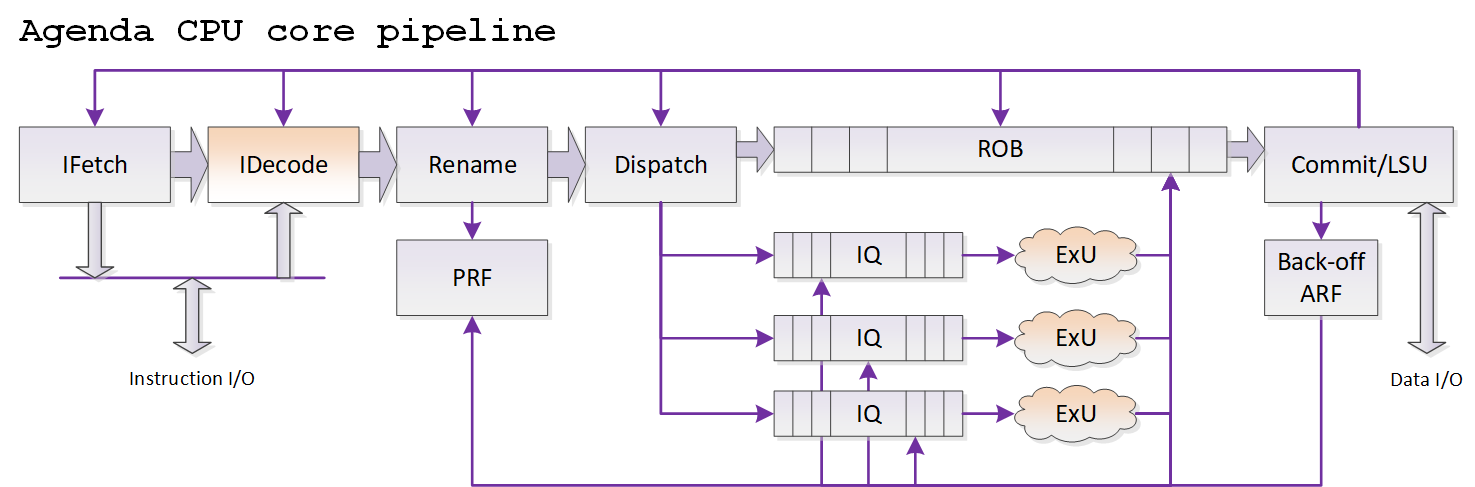
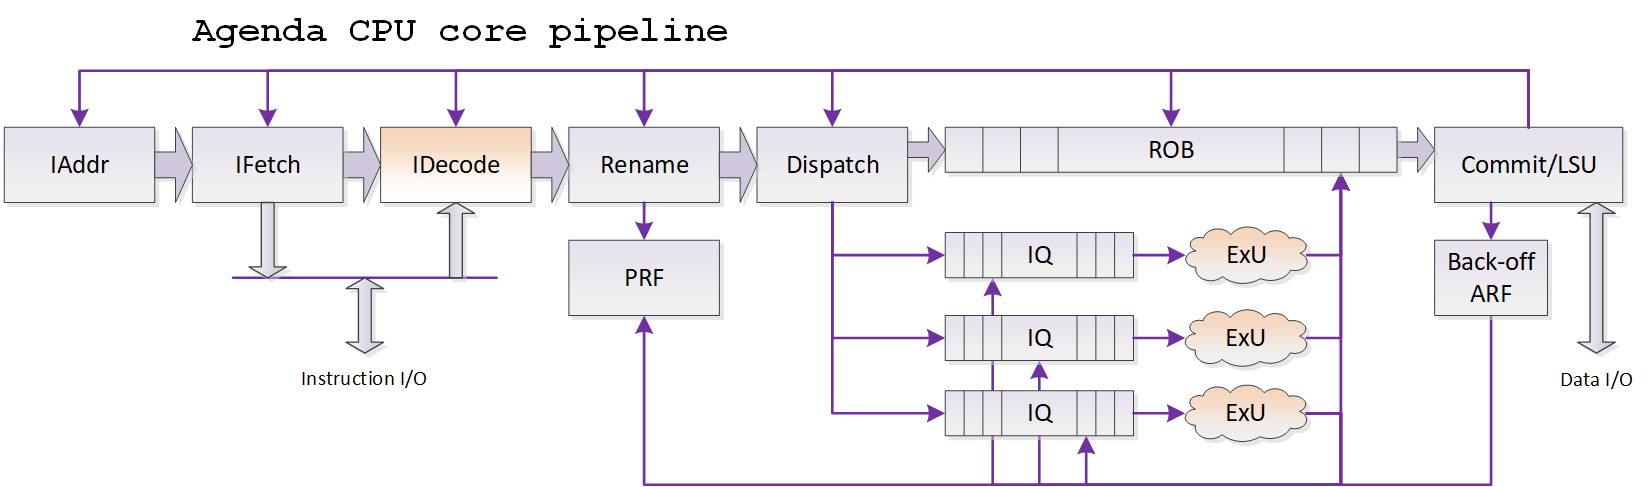
Adding IAddr stage to Agenda

diff --git a/kernelip/reordex/src/frontend.kt b/kernelip/reordex/src/frontend.kt
@@ -10,9 +10,33 @@ package reordex
 
 import hwast.*
 
-class instr_req_stage(val name : String, val cyclix_gen : cyclix.Generic, val instr_fetch : instr_fetch_buffer, INSTR_IO_ID_WIDTH : Int) : hw_imm(0) {
+class instr_iaddr_stage(val name : String, cyclix_gen : cyclix.Generic, MultiExu_CFG : Reordex_CFG) : trx_buffer(cyclix_gen, "geninstr_iaddr", 1, MultiExu_CFG) {
 
     var pc = cyclix_gen.uglobal("pc", 31, 0, hw_imm(32, IMM_BASE_TYPE.HEX, "200"))
+    val curinstr_addr  = AdduLocal("curinstr_addr", 31, 0, "0")
+    val nextinstr_addr = AdduLocal("nextinstr_addr", 31, 0, "0")
+
+    fun Process(instr_req : instr_req_stage) {
+
+        var new_req_buf = instr_req.GetPushTrx()
+
+        cyclix_gen.assign(curinstr_addr, pc)
+        cyclix_gen.add_gen(nextinstr_addr, pc, 4)
+        cyclix_gen.assign(TRX_LOCAL.GetFracRef("enb"), 1)
+        cyclix_gen.assign_subStructs(new_req_buf, TRX_LOCAL)
+
+        cyclix_gen.begif(instr_req.ctrl_rdy)
+        run {
+            cyclix_gen.assign(pc, nextinstr_addr)
+            instr_req.push_trx(new_req_buf)
+        }; cyclix_gen.endif()
+    }
+}
+
+class instr_req_stage(val name : String, cyclix_gen : cyclix.Generic, INSTR_IO_ID_WIDTH : Int, MultiExu_CFG : Reordex_CFG) : trx_buffer(cyclix_gen, "geninstr_req", 2, MultiExu_CFG) {
+
+    val curinstr_addr  = AdduStageVar("curinstr_addr", 31, 0, "0")
+    val nextinstr_addr = AdduStageVar("nextinstr_addr", 31, 0, "0")
 
     var busreq_mem_struct = hw_struct(name + "_busreq_mem_struct")
     val instr_name_prefix = "genmcopipe_instr_mem_"
@@ -22,41 +46,48 @@ class instr_req_stage(val name : String, val cyclix_gen : cyclix.Generic, val in
 
     var instr_io_wr_ptr = cyclix_gen.uglobal("geninstr_io_wr_ptr", INSTR_IO_ID_WIDTH-1, 0, "0")
 
-    fun Process(instr_fetch : instr_fetch_buffer) {
-
-        var new_fetch_buf = instr_fetch.GetPushTrx()
-        var instr_data_wdata = cyclix_gen.local("instr_data_wdata", instr_req_fifo.vartype, "0")
-
+    init {
         busreq_mem_struct.addu("addr",     31, 0, "0")
         busreq_mem_struct.addu("be",       3,  0, "0")
         busreq_mem_struct.addu("wdata",    31, 0, "0")
 
         wr_struct.addu("we", 0, 0, "0")
         wr_struct.add("wdata", hw_type(busreq_mem_struct), "0")
+    }
 
-        cyclix_gen.assign(new_fetch_buf.GetFracRef("curinstr_addr"), pc)
+    fun Process(instr_fetch : instr_fetch_buffer) {
 
-        cyclix_gen.begif(instr_fetch.ctrl_rdy)
+        preinit_ctrls()
+        init_locals()
+
+        var new_fetch_buf = instr_fetch.GetPushTrx()
+        var instr_data_wdata = cyclix_gen.local("instr_data_wdata", instr_req_fifo.vartype, "0")
+
+        cyclix_gen.begif(ctrl_active)
         run {
-            cyclix_gen.assign(instr_data_wdata.GetFracRef("we"), 0)
-            cyclix_gen.assign(instr_data_wdata.GetFracRef("wdata").GetFracRef("addr"), pc)
-            cyclix_gen.assign(instr_data_wdata.GetFracRef("wdata").GetFracRef("be"), 15)
-            cyclix_gen.assign(instr_data_wdata.GetFracRef("wdata").GetFracRef("wdata"), 0)
 
-            cyclix_gen.assign(new_fetch_buf.GetFracRef("geninstr_io_id"), instr_io_wr_ptr)
-            cyclix_gen.begif(cyclix_gen.fifo_wr_unblk(instr_req_fifo, instr_data_wdata))
+            cyclix_gen.begif(instr_fetch.ctrl_rdy)
             run {
-                cyclix_gen.assign(instr_fetch.push, 1)
-                cyclix_gen.add_gen(instr_io_wr_ptr, instr_io_wr_ptr, 1)
-                cyclix_gen.add_gen(pc, pc, 4)
-            }; cyclix_gen.endif()
+                cyclix_gen.assign(instr_data_wdata.GetFracRef("we"), 0)
+                cyclix_gen.assign(instr_data_wdata.GetFracRef("wdata").GetFracRef("addr"), curinstr_addr)
+                cyclix_gen.assign(instr_data_wdata.GetFracRef("wdata").GetFracRef("be"), 15)
+                cyclix_gen.assign(instr_data_wdata.GetFracRef("wdata").GetFracRef("wdata"), 0)
 
-            cyclix_gen.assign(new_fetch_buf.GetFracRef("enb"), 1)
-            cyclix_gen.assign(new_fetch_buf.GetFracRef("nextinstr_addr"), pc)
+                cyclix_gen.assign(new_fetch_buf.GetFracRef("geninstr_io_id"), instr_io_wr_ptr)
+                cyclix_gen.begif(cyclix_gen.fifo_wr_unblk(instr_req_fifo, instr_data_wdata))
+                run {
+                    cyclix_gen.assign(instr_fetch.push, 1)
+                    cyclix_gen.add_gen(instr_io_wr_ptr, instr_io_wr_ptr, 1)
+                }; cyclix_gen.endif()
 
-            cyclix_gen.begif(instr_fetch.push)
-            run {
-                instr_fetch.push_trx(new_fetch_buf)
+                cyclix_gen.assign_subStructs(new_fetch_buf, TRX_LOCAL)
+
+                cyclix_gen.begif(instr_fetch.push)
+                run {
+                    instr_fetch.push_trx(new_fetch_buf)
+                    pop_trx()
+                }; cyclix_gen.endif()
+
             }; cyclix_gen.endif()
 
         }; cyclix_gen.endif()
@@ -65,13 +96,12 @@ class instr_req_stage(val name : String, val cyclix_gen : cyclix.Generic, val in
 
 class instr_fetch_buffer(name: String,
                          cyclix_gen : cyclix.Generic,
-                         name_prefix : String,
                          TRX_BUF_SIZE : Int,
                          val MultiExu_inst : MultiExuRISC,
                          val MultiExu_CFG : Reordex_CFG,
                          val global_structures: __control_structures,
                          cdb_num : Int,
-                         INSTR_IO_ID_WIDTH : Int) : uop_buffer(cyclix_gen, name_prefix, TRX_BUF_SIZE, MultiExu_CFG, cdb_num) {
+                         INSTR_IO_ID_WIDTH : Int) : uop_buffer(cyclix_gen, "geninstr_fetch", TRX_BUF_SIZE, MultiExu_CFG, cdb_num) {
 
     val curinstr_addr  = AdduStageVar("curinstr_addr", 31, 0, "0")
     val nextinstr_addr = AdduStageVar("nextinstr_addr", 31, 0, "0")

diff --git a/kernelip/reordex/src/MultiExu.kt b/kernelip/reordex/src/MultiExu.kt
@@ -18,6 +18,7 @@ enum class REORDEX_MODE {
 
 open class Reordex_CFG(val RF_width : Int,
                        val ARF_depth : Int,
+                       val FrontEnd_width : Int,
                        val rename_RF: Boolean,
                        val PRF_depth : Int,
                        val trx_inflight_num : Int,
@@ -361,11 +362,13 @@ open class MultiExuCoproc(val name : String, val MultiExu_CFG : Reordex_CFG, val
         MSG("generating internal structures: done")
 
         var instr_fetch = (rob as hw_stage)
-        var instr_req = hw_imm(0)
+        var instr_req = (rob as hw_stage)
+        var instr_iaddr = (rob as hw_stage)
         if (MultiExu_CFG.mode == REORDEX_MODE.RISC) {
-            instr_fetch = instr_fetch_buffer(name, cyclix_gen, "instr_fetch", FETCH_BUF_SIZE, (this as MultiExuRISC), MultiExu_CFG, control_structures, CDB_NUM, INSTR_IO_ID_WIDTH)
+            instr_fetch = instr_fetch_buffer(name, cyclix_gen, FETCH_BUF_SIZE, (this as MultiExuRISC), MultiExu_CFG, control_structures, CDB_NUM, INSTR_IO_ID_WIDTH)
             instr_fetch.var_dict.put(this.RISCDecode.CSR_MCAUSE, cyclix_CSR_MCAUSE)
-            instr_req = instr_req_stage(name, cyclix_gen, instr_fetch, INSTR_IO_ID_WIDTH)
+            instr_req = instr_req_stage(name, cyclix_gen, INSTR_IO_ID_WIDTH, MultiExu_CFG)
+            instr_iaddr = instr_iaddr_stage(name, cyclix_gen, MultiExu_CFG)
         }
 
         var ExUnit_idx = 0
@@ -516,7 +519,8 @@ open class MultiExuCoproc(val name : String, val MultiExu_CFG : Reordex_CFG, val
             for (IQ_inst in IQ_insts) bufs_to_reset.add(IQ_inst)
             bufs_to_reset.add(renamed_uop_buf)
             bufs_to_reset.add(instr_fetch)
-            (rob as rob_risc).Commit(control_structures, (instr_req as instr_req_stage).pc, bufs_to_reset, (IQ_insts as ArrayList<hw_stage>), cdb.GetFracRef(CDB_RISC_COMMIT_POS), MRETADDR, cyclix_CSR_MCAUSE)
+            bufs_to_reset.add(instr_req)
+            (rob as rob_risc).Commit(control_structures, (instr_iaddr as instr_iaddr_stage).pc, bufs_to_reset, (IQ_insts as ArrayList<hw_stage>), cdb.GetFracRef(CDB_RISC_COMMIT_POS), MRETADDR, cyclix_CSR_MCAUSE)
         }
         cyclix_gen.MSG_COMMENT("ROB committing: done")
 
@@ -614,6 +618,7 @@ open class MultiExuCoproc(val name : String, val MultiExu_CFG : Reordex_CFG, val
         } else {            // MultiExu_CFG.mode == REORDEX_MODE.RISC
             (instr_fetch as instr_fetch_buffer).Process(renamed_uop_buf, MRETADDR, (this as MultiExuRISC).RISCDecode.CSR_MCAUSE)
             (instr_req as instr_req_stage).Process(instr_fetch)
+            (instr_iaddr as instr_iaddr_stage).Process(instr_req)
         }
 
         cyclix_gen.MSG_COMMENT("renaming: done")

diff --git a/designs/coregen/agenda/src/cpu.kt b/designs/coregen/agenda/src/cpu.kt
@@ -12,7 +12,7 @@ import hwast.*
 import cyclix.*
 import reordex.*
 
-class CPU_CFG() : Reordex_CFG(32, 32, true,48, 16, REORDEX_MODE.RISC)
+class CPU_CFG() : Reordex_CFG(32, 32, 2, true,48, 16, REORDEX_MODE.RISC)
 {
     var exu_opcode      = AddSrcUImm("exu_opcode", 6)
     var alu_unsigned    = AddSrcUImm("alu_unsigned", 1)

diff --git a/designs/coregen/citadel/src/fpu.kt b/designs/coregen/citadel/src/fpu.kt
@@ -12,7 +12,7 @@ import cyclix.STREAM_PREF_IMPL
 import hwast.*
 import reordex.*
 
-class FPU_CFG() : Reordex_CFG(32, 32, true,64, 64, REORDEX_MODE.COPROCESSOR)
+class FPU_CFG() : Reordex_CFG(32, 32, 1, true, 64, 64, REORDEX_MODE.COPROCESSOR)
 {
     var opcode = AddSrcUImm("opcode", 32)
 

diff --git a/kernelip/cyclix/src/hw_stage.kt b/kernelip/cyclix/src/hw_stage.kt
@@ -294,7 +294,6 @@ open class hw_stage(cyclix_gen : cyclix.Generic,
     }
 
     override fun pop_trx() {
-        cyclix_gen.assign(ctrl_active, 0)
         super.pop_trx()
     }
 
